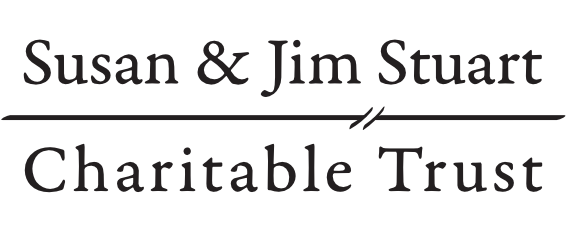
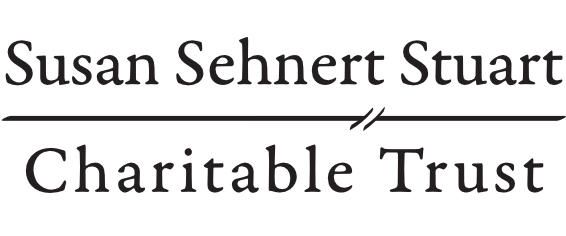
Add/Update sponsor images

diff --git a/src/components/Production.svelte b/src/components/Production.svelte
@@ -60,7 +60,7 @@
         <p>Sponsored By</p>
         {#if production.sponsor.image}
           <img
-            class="w-64 max-w-full block"
+            class="w-48 max-w-full block"
             alt="sponsor logo"
             src="/images/sponsors/{production.sponsor.image}" />
         {:else if production.sponsor.text}
